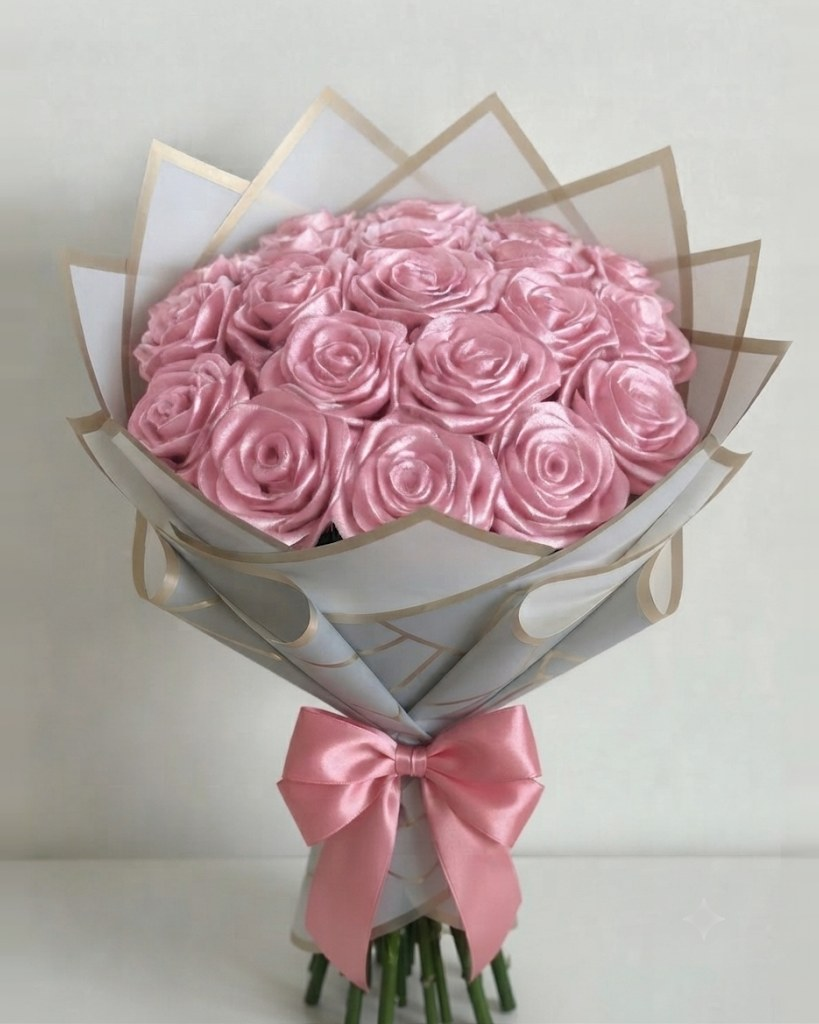
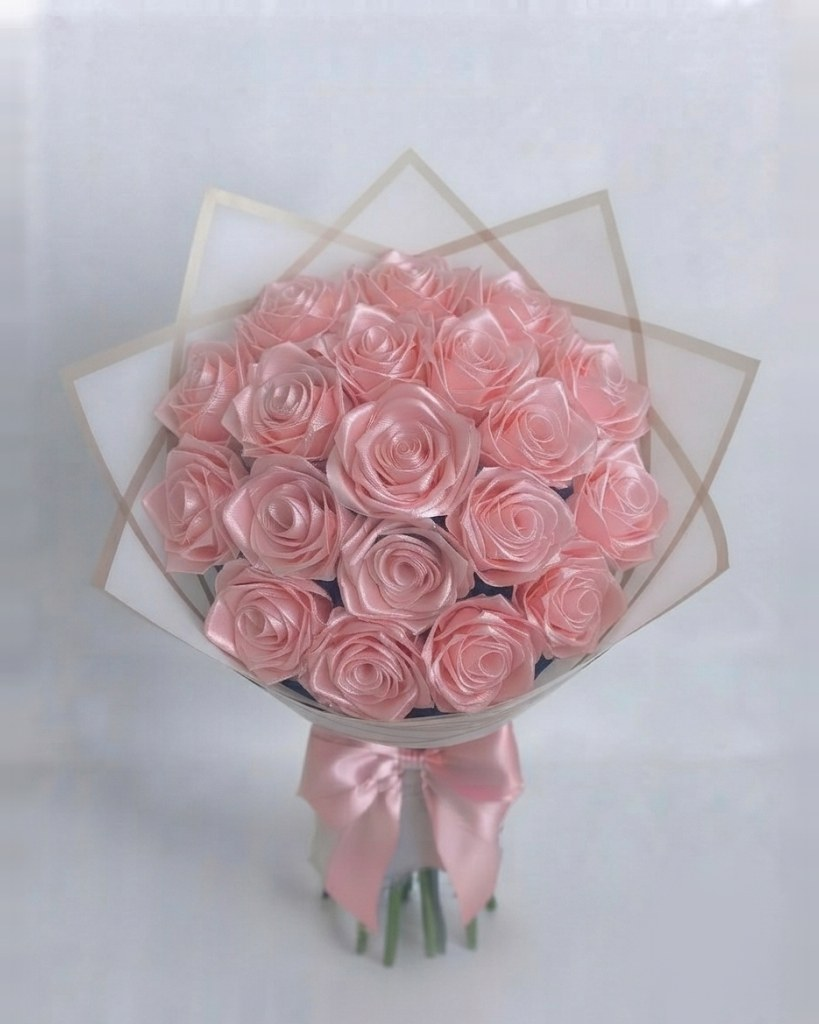
Pink rose photos for 7 and 20 roses in white wrap
Claude-Session: https://claude.ai/code/session_01GvQGKs82VGAi27JdspmeE6

diff --git a/about.html b/about.html
@@ -6,7 +6,7 @@
 <link rel="preconnect" href="https://fonts.googleapis.com">
 <link rel="preconnect" href="https://fonts.gstatic.com" crossorigin>
 <link href="https://fonts.googleapis.com/css2?family=Great+Vibes&family=Playfair+Display:wght@500;600;700&family=Poppins:wght@400;500;600&display=swap" rel="stylesheet">
-<link rel="stylesheet" href="assets/css/styles.css?v=202610231326">
+<link rel="stylesheet" href="assets/css/styles.css?v=202610231333">
 <link rel="icon" href="assets/favicon.svg" type="image/svg+xml">
 <title>About Our Flowers | Fleure</title>
 <meta name="description" content="Handmade bouquets shaped by hand from soft pipe cleaners and satin ribbon, made slowly in a small studio.">
@@ -53,9 +53,9 @@
     <a class="btn btn-outline" href="custom.html">Place a custom order</a>
   </div>
 </main>
-<script src="assets/js/data.js?v=202610231326"></script>
-<script src="assets/js/bouquet.js?v=202610231326"></script>
-<script src="assets/js/app.js?v=202610231326"></script>
+<script src="assets/js/data.js?v=202610231333"></script>
+<script src="assets/js/bouquet.js?v=202610231333"></script>
+<script src="assets/js/app.js?v=202610231333"></script>
 <script>document.getElementById("arrange-img").src = productImage(byId("sunflower-rose-tulip"));
 document.querySelectorAll("[data-icon]").forEach((el) => (el.innerHTML = ICONS[el.dataset.icon]));</script>
 </body>

diff --git a/contact.html b/contact.html
@@ -6,7 +6,7 @@
 <link rel="preconnect" href="https://fonts.googleapis.com">
 <link rel="preconnect" href="https://fonts.gstatic.com" crossorigin>
 <link href="https://fonts.googleapis.com/css2?family=Great+Vibes&family=Playfair+Display:wght@500;600;700&family=Poppins:wght@400;500;600&display=swap" rel="stylesheet">
-<link rel="stylesheet" href="assets/css/styles.css?v=202610231326">
+<link rel="stylesheet" href="assets/css/styles.css?v=202610231333">
 <link rel="icon" href="assets/favicon.svg" type="image/svg+xml">
 <title>Contact | Fleure</title>
 <meta name="description" content="Have a question, an idea or a custom request? Reach us on WhatsApp.">
@@ -35,9 +35,9 @@
   </section>
   <div class="thanks"><span class="script">Thank you</span>for supporting handmade</div>
 </main>
-<script src="assets/js/data.js?v=202610231326"></script>
-<script src="assets/js/bouquet.js?v=202610231326"></script>
-<script src="assets/js/app.js?v=202610231326"></script>
+<script src="assets/js/data.js?v=202610231333"></script>
+<script src="assets/js/bouquet.js?v=202610231333"></script>
+<script src="assets/js/app.js?v=202610231333"></script>
 <script>
   document.querySelectorAll("[data-wa]").forEach((a) => (a.href = waLink(a.dataset.wa)));
   document.querySelectorAll("[data-icon]").forEach((el) => (el.innerHTML = ICONS[el.dataset.icon]));

diff --git a/index.html b/index.html
@@ -6,7 +6,7 @@
 <link rel="preconnect" href="https://fonts.googleapis.com">
 <link rel="preconnect" href="https://fonts.gstatic.com" crossorigin>
 <link href="https://fonts.googleapis.com/css2?family=Great+Vibes&family=Playfair+Display:wght@500;600;700&family=Poppins:wght@400;500;600&display=swap" rel="stylesheet">
-<link rel="stylesheet" href="assets/css/styles.css?v=202610231326">
+<link rel="stylesheet" href="assets/css/styles.css?v=202610231333">
 <link rel="icon" href="assets/favicon.svg" type="image/svg+xml">
 <title>Fleure | Handmade Flower Bouquets</title>
 <meta name="description" content="Handmade forever flowers that never wilt: pipe-cleaner and satin ribbon bouquets, made to order. Order on WhatsApp.">
@@ -72,9 +72,9 @@
     </div>
   </section>
 </main>
-<script src="assets/js/data.js?v=202610231326"></script>
-<script src="assets/js/bouquet.js?v=202610231326"></script>
-<script src="assets/js/app.js?v=202610231326"></script>
+<script src="assets/js/data.js?v=202610231333"></script>
+<script src="assets/js/bouquet.js?v=202610231333"></script>
+<script src="assets/js/app.js?v=202610231333"></script>
 <script>
   document.querySelectorAll("[data-shop-name]").forEach((el) => (el.textContent = SHOP.name));
   document.querySelectorAll("[data-wa]").forEach((a) => (a.href = waLink(a.dataset.wa)));

diff --git a/how-to-order.html b/how-to-order.html
@@ -6,7 +6,7 @@
 <link rel="preconnect" href="https://fonts.googleapis.com">
 <link rel="preconnect" href="https://fonts.gstatic.com" crossorigin>
 <link href="https://fonts.googleapis.com/css2?family=Great+Vibes&family=Playfair+Display:wght@500;600;700&family=Poppins:wght@400;500;600&display=swap" rel="stylesheet">
-<link rel="stylesheet" href="assets/css/styles.css?v=202610231326">
+<link rel="stylesheet" href="assets/css/styles.css?v=202610231333">
 <link rel="icon" href="assets/favicon.svg" type="image/svg+xml">
 <title>How to Order + FAQ | Fleure</title>
 <meta name="description" content="How to order a handmade bouquet on WhatsApp, plus answers about flower care, delivery and payment.">
@@ -41,9 +41,9 @@
     </div>
   </section>
 </main>
-<script src="assets/js/data.js?v=202610231326"></script>
-<script src="assets/js/bouquet.js?v=202610231326"></script>
-<script src="assets/js/app.js?v=202610231326"></script>
+<script src="assets/js/data.js?v=202610231333"></script>
+<script src="assets/js/bouquet.js?v=202610231333"></script>
+<script src="assets/js/app.js?v=202610231333"></script>
 <script>
   document.querySelectorAll("[data-wa]").forEach((a) => (a.href = waLink(a.dataset.wa)));
   document.querySelectorAll("[data-icon]").forEach((el) => (el.innerHTML = ICONS[el.dataset.icon]));

diff --git a/custom.html b/custom.html
@@ -6,7 +6,7 @@
 <link rel="preconnect" href="https://fonts.googleapis.com">
 <link rel="preconnect" href="https://fonts.gstatic.com" crossorigin>
 <link href="https://fonts.googleapis.com/css2?family=Great+Vibes&family=Playfair+Display:wght@500;600;700&family=Poppins:wght@400;500;600&display=swap" rel="stylesheet">
-<link rel="stylesheet" href="assets/css/styles.css?v=202610231326">
+<link rel="stylesheet" href="assets/css/styles.css?v=202610231333">
 <link rel="icon" href="assets/favicon.svg" type="image/svg+xml">
 <title>Build Your Own Bouquet | Fleure</title>
 <meta name="description" content="Create a custom handmade bouquet: choose flowers, colours, wrap and a gift note, then send your order on WhatsApp.">
@@ -55,9 +55,9 @@
     </form>
   </section>
 </main>
-<script src="assets/js/data.js?v=202610231326"></script>
-<script src="assets/js/bouquet.js?v=202610231326"></script>
-<script src="assets/js/app.js?v=202610231326"></script>
+<script src="assets/js/data.js?v=202610231333"></script>
+<script src="assets/js/bouquet.js?v=202610231333"></script>
+<script src="assets/js/app.js?v=202610231333"></script>
 <script>
   document.querySelectorAll("[data-wa]").forEach((a) => (a.href = waLink(a.dataset.wa)));
   document.getElementById("occasions").innerHTML = [

diff --git a/shop.html b/shop.html
@@ -6,7 +6,7 @@
 <link rel="preconnect" href="https://fonts.googleapis.com">
 <link rel="preconnect" href="https://fonts.gstatic.com" crossorigin>
 <link href="https://fonts.googleapis.com/css2?family=Great+Vibes&family=Playfair+Display:wght@500;600;700&family=Poppins:wght@400;500;600&display=swap" rel="stylesheet">
-<link rel="stylesheet" href="assets/css/styles.css?v=202610231326">
+<link rel="stylesheet" href="assets/css/styles.css?v=202610231333">
 <link rel="icon" href="assets/favicon.svg" type="image/svg+xml">
 <title>Shop Bouquets | Fleure</title>
 <meta name="description" content="Single flower, double flower and combination bouquets from ₹89, satin ribbon roses and special occasion bouquets. Handmade to order.">
@@ -22,9 +22,9 @@
   </div>
   <div id="rows"></div>
 </main>
-<script src="assets/js/data.js?v=202610231326"></script>
-<script src="assets/js/bouquet.js?v=202610231326"></script>
-<script src="assets/js/app.js?v=202610231326"></script>
+<script src="assets/js/data.js?v=202610231333"></script>
+<script src="assets/js/bouquet.js?v=202610231333"></script>
+<script src="assets/js/app.js?v=202610231333"></script>
 <script>
   const rows = document.getElementById("rows");
   const filters = document.getElementById("filters");

diff --git a/product.html b/product.html
@@ -6,7 +6,7 @@
 <link rel="preconnect" href="https://fonts.googleapis.com">
 <link rel="preconnect" href="https://fonts.gstatic.com" crossorigin>
 <link href="https://fonts.googleapis.com/css2?family=Great+Vibes&family=Playfair+Display:wght@500;600;700&family=Poppins:wght@400;500;600&display=swap" rel="stylesheet">
-<link rel="stylesheet" href="assets/css/styles.css?v=202610231326">
+<link rel="stylesheet" href="assets/css/styles.css?v=202610231333">
 <link rel="icon" href="assets/favicon.svg" type="image/svg+xml">
 <title>Bouquet | Fleure</title>
 <meta name="description" content="Handmade bouquet, made to order. Choose colours and wrap, and order on WhatsApp.">
@@ -19,9 +19,9 @@
     <div class="product-grid" id="related"></div>
   </section>
 </main>
-<script src="assets/js/data.js?v=202610231326"></script>
-<script src="assets/js/bouquet.js?v=202610231326"></script>
-<script src="assets/js/app.js?v=202610231326"></script>
+<script src="assets/js/data.js?v=202610231333"></script>
+<script src="assets/js/bouquet.js?v=202610231333"></script>
+<script src="assets/js/app.js?v=202610231333"></script>
 <script>
   const params = new URLSearchParams(location.search);
   const p = byId(params.get("id"));

diff --git a/assets/js/app.js b/assets/js/app.js
@@ -193,7 +193,7 @@
   // Photos reuse this script's ?v= stamp so browsers fetch new copies after each update.
   const version = new URL(document.currentScript.src).searchParams.get("v") || "";
   // Real photos by rose colour: folder under assets/sizes and the counts photographed in every wrap and finish, and single extra photos.
-  const SIZE_PHOTOS = { Red: { dir: "", counts: { min: 1, max: 30 } }, Pink: { dir: "pink/", counts: [1, 3], extra: ["black-plain-7", "black-plain-10", "black-plain-20", "white-plain-13", "white-plain-17", "white-plain-20"] }, White: { dir: "white/", counts: [1, 3] }, Black: { dir: "black/", counts: [1, 3] } };
+  const SIZE_PHOTOS = { Red: { dir: "", counts: { min: 1, max: 30 } }, Pink: { dir: "pink/", counts: [1, 3], extra: ["black-plain-7", "black-plain-10", "black-plain-20", "white-plain-7", "white-plain-13", "white-plain-17", "white-plain-20"] }, White: { dir: "white/", counts: [1, 3] }, Black: { dir: "black/", counts: [1, 3] } };
   const sizePhoto = (o) => {
     const set = o.kind === "ribbon" && o.ribbon === o.colours && SIZE_PHOTOS[o.colours];
     if (!set) return null;
